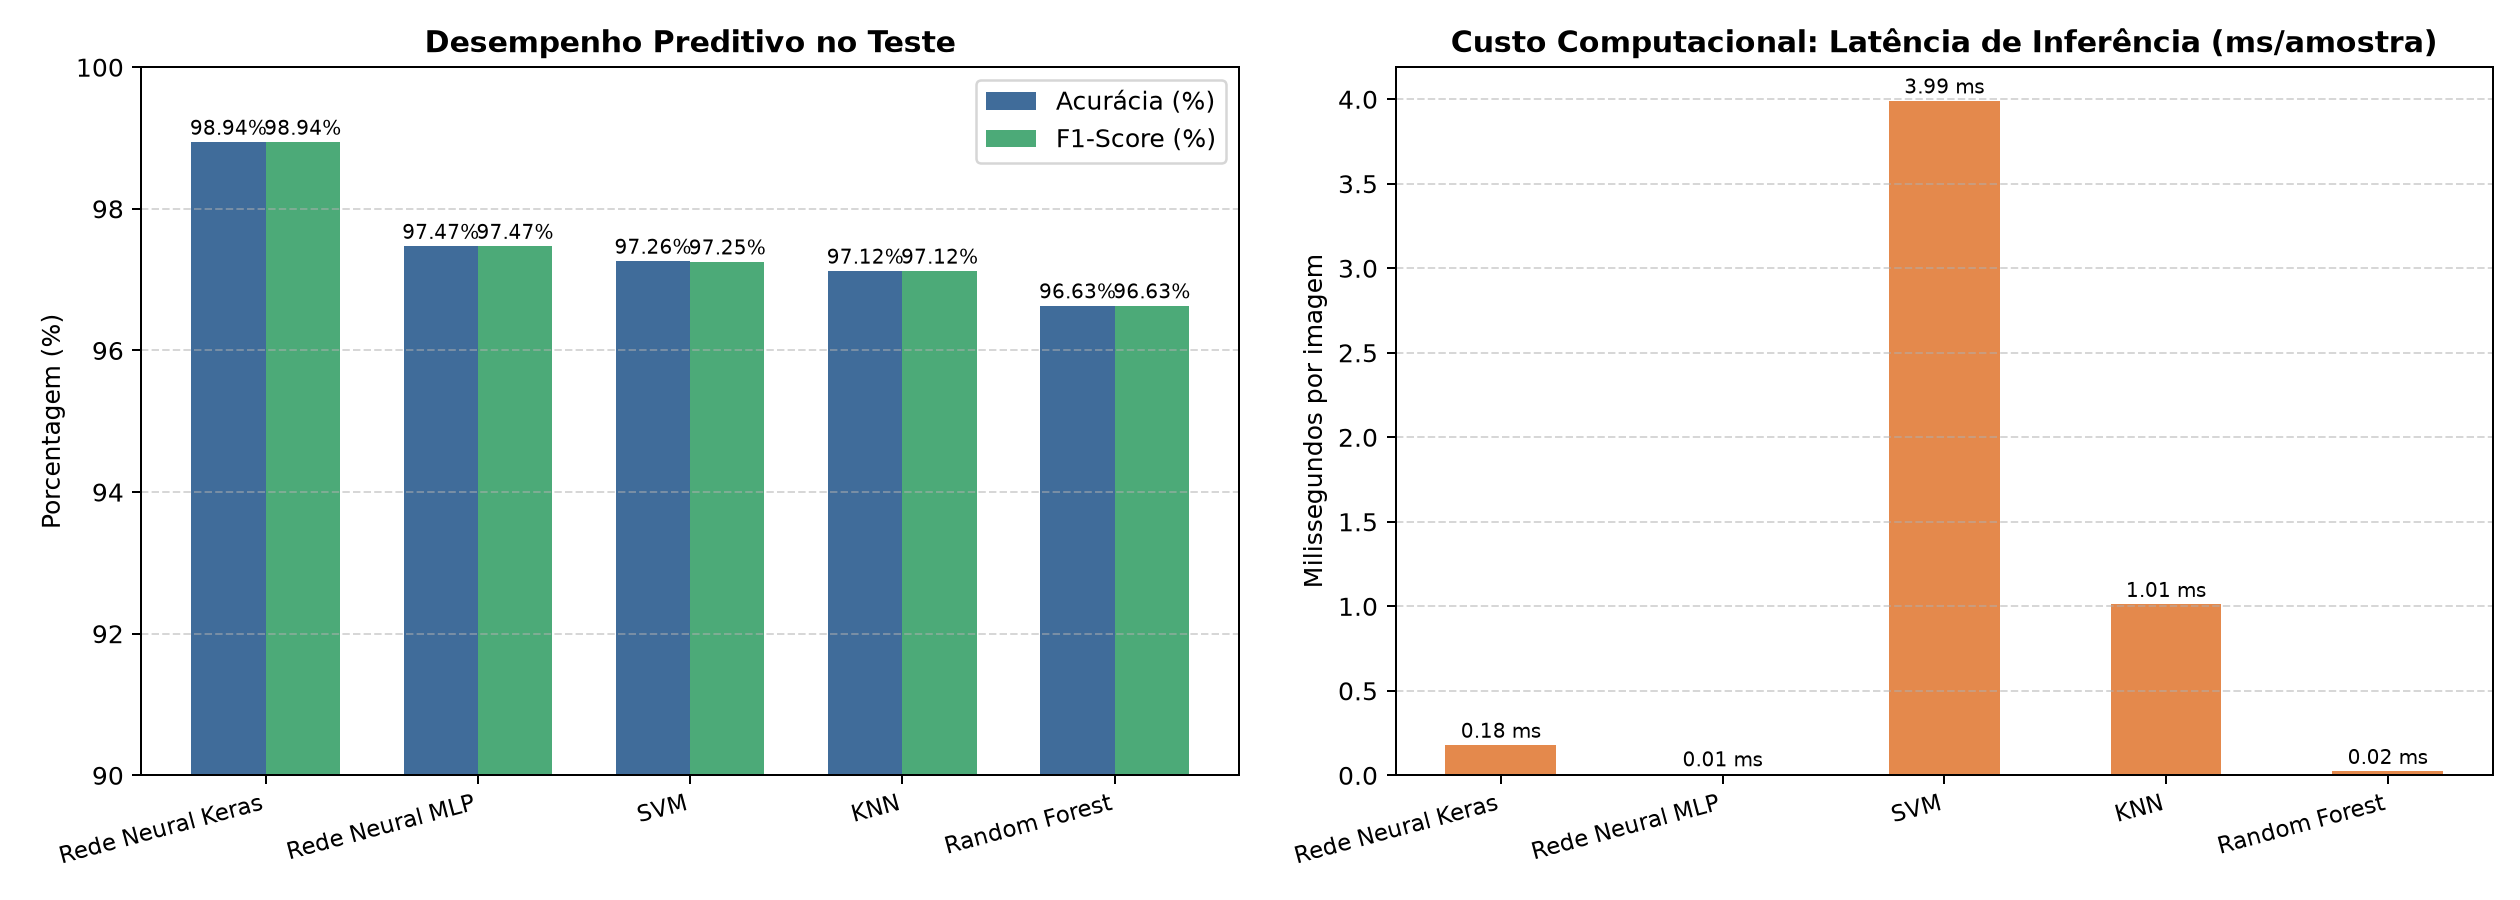
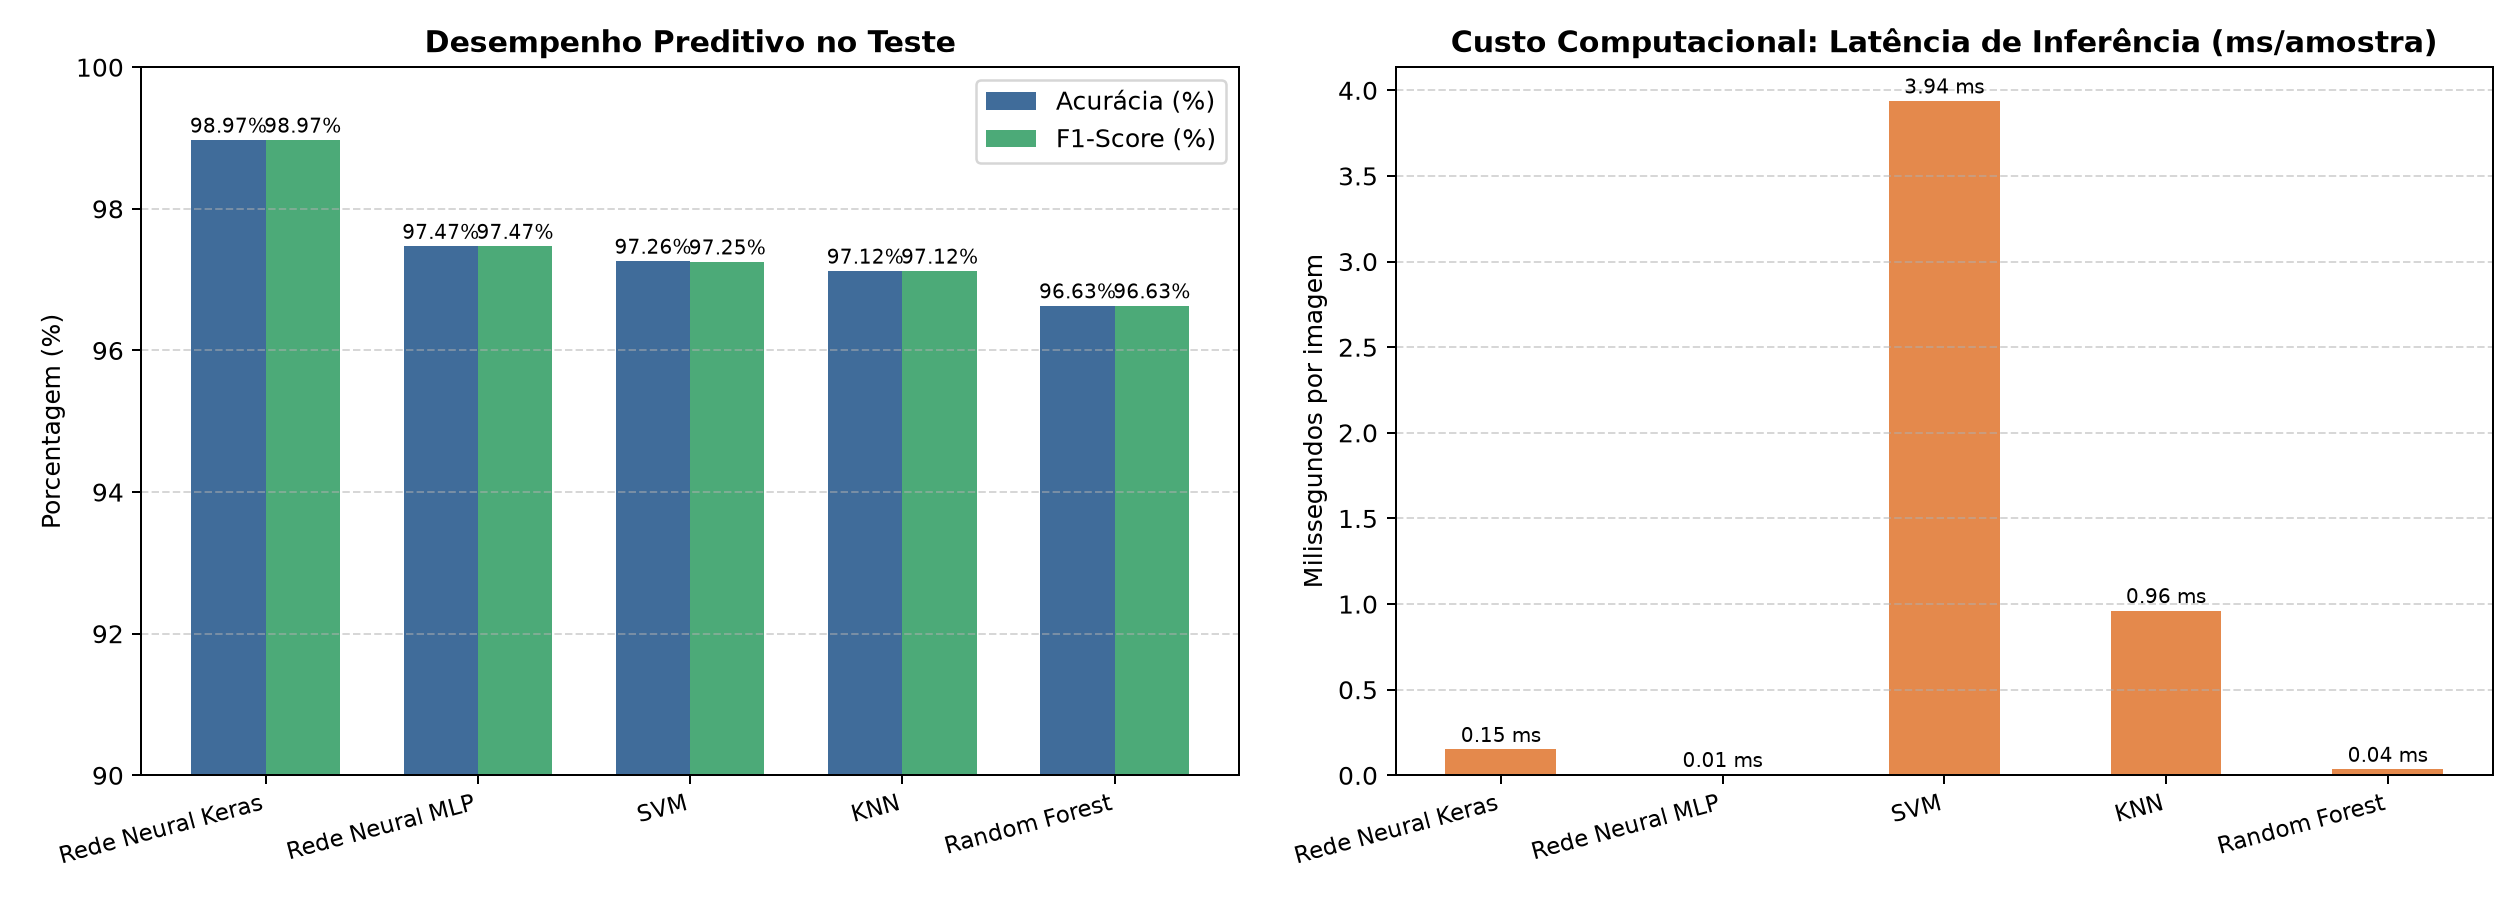
feat: melhorias na fase 5 (#6)

diff --git a/README.md b/README.md
@@ -186,3 +186,6 @@ O pipeline OpenCV implementado em `src/robustness.py`:
 1. **Modelo Selecionado para Máxima Precisão**: **Rede Neural Convolucional (Keras)** com **98.97% de acurácia** no teste e alta robustez no processamento de imagens reais do Paint.
 2. **Modelo Selecionado para Máxima Eficiência**: **Rede Neural MLP (Scikit-Learn)** com **97.47% de acurácia** e latência ultrarrápida de **0.004 ms por imagem**.
 3. **Poder do Comitê de Modelos (Ensemble)**: A votação de consenso entre os 5 modelos garantiu a correção de casos atípicos ou ruidosos, atingindo unanimidade em 5 das 12 amostras manuscritas externas.
+
+Entrega Prevista: Outubro/2026
+Autor: Carlos Joao Reinert
